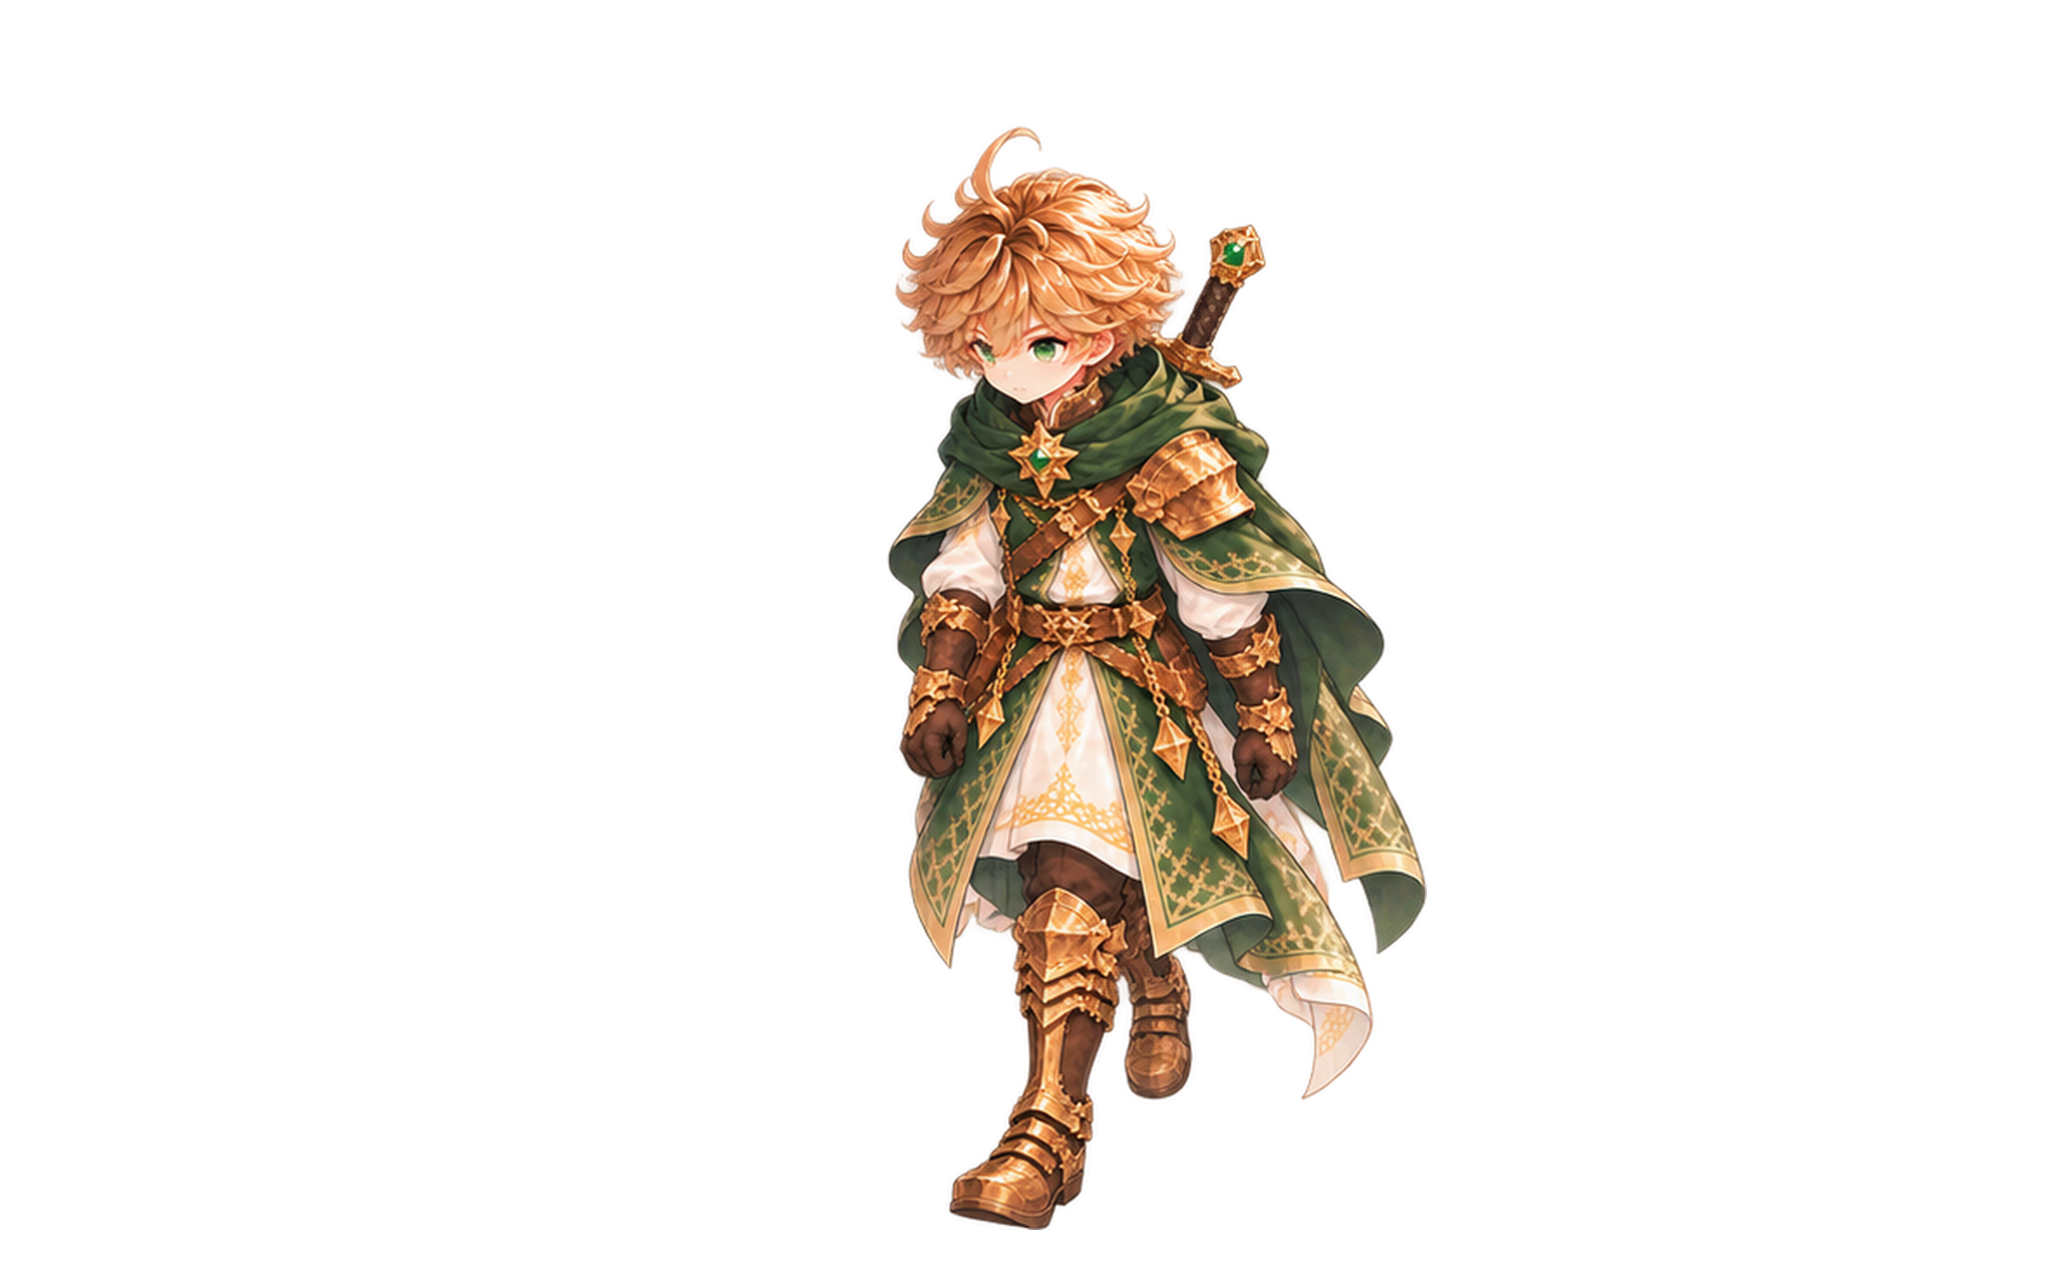
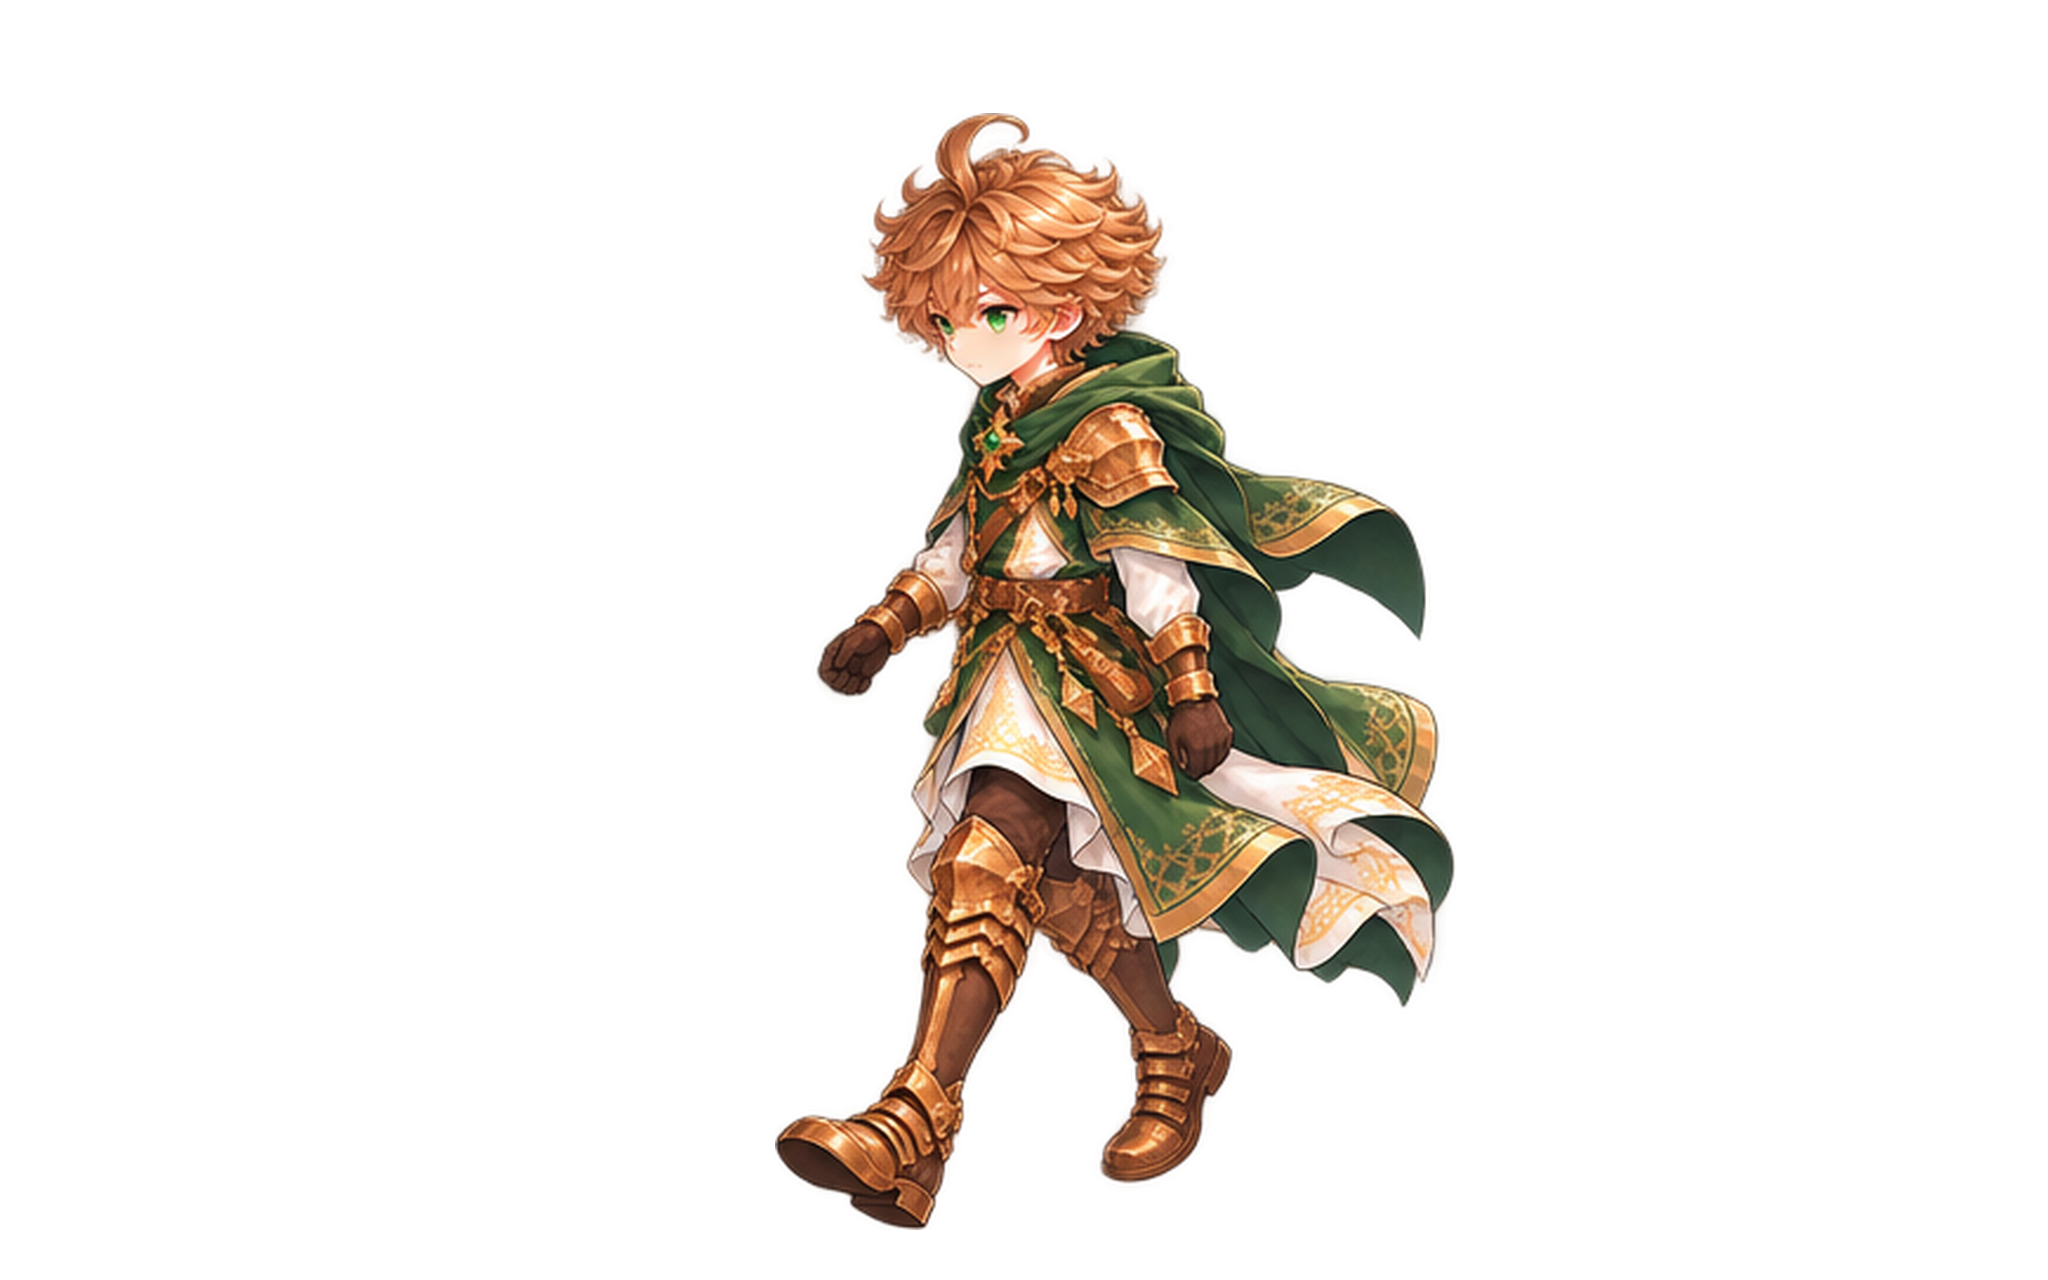
feat(aidan): down-left diagonal walk replaced with delivered 12-frame cycle
Claude-Session: https://claude.ai/code/session_01KtAepaq115Lcetj5TqkPJk

Changed region(s): [[0.375, 0.0625, 0.7188, 0.9688]]

diff --git a/js/field/aidan-field-assets.js b/js/field/aidan-field-assets.js
@@ -68,14 +68,14 @@
   "scale": 0.0625
  },
  "aidan_walk_dl_01": {
-  "path": "img/field/characters/aidan/aidan_walk_dl_01.png?v=a36b3aca",
+  "path": "img/field/characters/aidan/aidan_walk_dl_01.png?v=c8b97d09",
   "width": 2048,
   "height": 1280,
   "bounds": [
-   844,
-   126,
-   541,
-   1104
+   831,
+   122,
+   598,
+   1107
   ],
   "anchor": [
    1024,
@@ -84,14 +84,14 @@
   "scale": 0.0625
  },
  "aidan_walk_dl_02": {
-  "path": "img/field/characters/aidan/aidan_walk_dl_02.png?v=7801e109",
+  "path": "img/field/characters/aidan/aidan_walk_dl_02.png?v=87c239f3",
   "width": 2048,
   "height": 1280,
   "bounds": [
-   869,
-   127,
-   558,
-   1103
+   788,
+   123,
+   661,
+   1106
   ],
   "anchor": [
    1024,
@@ -100,14 +100,14 @@
   "scale": 0.0625
  },
  "aidan_walk_dl_03": {
-  "path": "img/field/characters/aidan/aidan_walk_dl_03.png?v=13236b25",
+  "path": "img/field/characters/aidan/aidan_walk_dl_03.png?v=39e276e4",
   "width": 2048,
   "height": 1280,
   "bounds": [
-   888,
-   126,
-   547,
-   1104
+   840,
+   128,
+   597,
+   1101
   ],
   "anchor": [
    1024,
@@ -116,14 +116,14 @@
   "scale": 0.0625
  },
  "aidan_walk_dl_04": {
-  "path": "img/field/characters/aidan/aidan_walk_dl_04.png?v=02c95047",
+  "path": "img/field/characters/aidan/aidan_walk_dl_04.png?v=6c80ebd0",
   "width": 2048,
   "height": 1280,
   "bounds": [
-   876,
-   126,
-   514,
-   1104
+   841,
+   129,
+   612,
+   1100
   ],
   "anchor": [
    1024,
@@ -132,14 +132,14 @@
   "scale": 0.0625
  },
  "aidan_walk_dl_05": {
-  "path": "img/field/characters/aidan/aidan_walk_dl_05.png?v=13a830e6",
+  "path": "img/field/characters/aidan/aidan_walk_dl_05.png?v=d6d28209",
   "width": 2048,
   "height": 1280,
   "bounds": [
-   887,
-   126,
-   540,
-   1104
+   775,
+   113,
+   679,
+   1116
   ],
   "anchor": [
    1024,
@@ -148,14 +148,110 @@
   "scale": 0.0625
  },
  "aidan_walk_dl_06": {
-  "path": "img/field/characters/aidan/aidan_walk_dl_06.png?v=2e4fb7f3",
+  "path": "img/field/characters/aidan/aidan_walk_dl_06.png?v=b7460dd4",
   "width": 2048,
   "height": 1280,
   "bounds": [
-   888,
-   126,
-   537,
-   1104
+   748,
+   108,
+   697,
+   1121
+  ],
+  "anchor": [
+   1024,
+   1230
+  ],
+  "scale": 0.0625
+ },
+ "aidan_walk_dl_07": {
+  "path": "img/field/characters/aidan/aidan_walk_dl_07.png?v=b8ace7dd",
+  "width": 2048,
+  "height": 1280,
+  "bounds": [
+   821,
+   140,
+   620,
+   1089
+  ],
+  "anchor": [
+   1024,
+   1230
+  ],
+  "scale": 0.0625
+ },
+ "aidan_walk_dl_08": {
+  "path": "img/field/characters/aidan/aidan_walk_dl_08.png?v=7e254314",
+  "width": 2048,
+  "height": 1280,
+  "bounds": [
+   788,
+   132,
+   675,
+   1097
+  ],
+  "anchor": [
+   1024,
+   1230
+  ],
+  "scale": 0.0625
+ },
+ "aidan_walk_dl_09": {
+  "path": "img/field/characters/aidan/aidan_walk_dl_09.png?v=9b8c7075",
+  "width": 2048,
+  "height": 1280,
+  "bounds": [
+   813,
+   136,
+   635,
+   1093
+  ],
+  "anchor": [
+   1024,
+   1230
+  ],
+  "scale": 0.0625
+ },
+ "aidan_walk_dl_10": {
+  "path": "img/field/characters/aidan/aidan_walk_dl_10.png?v=e4d82d55",
+  "width": 2048,
+  "height": 1280,
+  "bounds": [
+   751,
+   110,
+   714,
+   1119
+  ],
+  "anchor": [
+   1024,
+   1230
+  ],
+  "scale": 0.0625
+ },
+ "aidan_walk_dl_11": {
+  "path": "img/field/characters/aidan/aidan_walk_dl_11.png?v=9ad0b063",
+  "width": 2048,
+  "height": 1280,
+  "bounds": [
+   777,
+   134,
+   687,
+   1095
+  ],
+  "anchor": [
+   1024,
+   1230
+  ],
+  "scale": 0.0625
+ },
+ "aidan_walk_dl_12": {
+  "path": "img/field/characters/aidan/aidan_walk_dl_12.png?v=af251b7e",
+  "width": 2048,
+  "height": 1280,
+  "bounds": [
+   805,
+   141,
+   627,
+   1088
   ],
   "anchor": [
    1024,

diff --git a/index.html b/index.html
@@ -2012,7 +2012,7 @@ const v66DJ=devJump;devJump=function(k){const r=v66DJ(k);syncStoryEquipment();re
 <script src="js/field/lind-npcs.js"></script>
 <script src="js/field/lind-birds.js"></script>
 <link rel="stylesheet" href="css/aidan-field.css">
-<script src="js/field/aidan-field-assets.js?v=20261013fb"></script>
+<script src="js/field/aidan-field-assets.js?v=20261013dl12"></script>
 <script src="js/field/aidan-heading.js?v=20261013fb"></script>
 <script src="js/field/aidan-field-actor.js?v=20261013fb"></script>
 <script src="js/field/lind-terrain-layout.js"></script>

diff --git a/tests/moss/m31_aidan_heading.py b/tests/moss/m31_aidan_heading.py
@@ -30,6 +30,12 @@ with sync_playwright() as p:
     s=walk(['ArrowRight','ArrowDown']); check('dlF' in s and 'down' not in s,'down-right uses mirrored 3/4 %s'%s)
     s=walk(['ArrowLeft','ArrowUp']); check('ul' in s and 'up' not in s,'up-left uses 3/4 back %s'%s)
     s=walk(['ArrowRight']); check(s<={'right'},'sideways uses walk_right %s'%s)
+    pg.keyboard.down('ArrowLeft'); pg.keyboard.down('ArrowDown'); idx=[]
+    for i in range(80):
+        pg.wait_for_timeout(40); n=pg.evaluate("(()=>{const i=[...document.querySelectorAll('.forest-aidan')].find(i=>!i.hidden);const m=i&&i.dataset.src.match(/walk_dl_(\\d+)/);return m?+m[1]:null})()")
+        if n and (not idx or idx[-1]!=n): idx.append(n)
+    pg.keyboard.up('ArrowLeft'); pg.keyboard.up('ArrowDown')
+    check(len(set(idx))>=10 and max(idx)==12,'down-left diagonal cycles the 12-frame walk %s'%idx)
     check(not errs,'no console errors %s'%errs[:3])
     b.close()
 print('FAILS %d'%len(fails)); sys.exit(1 if fails else 0)
